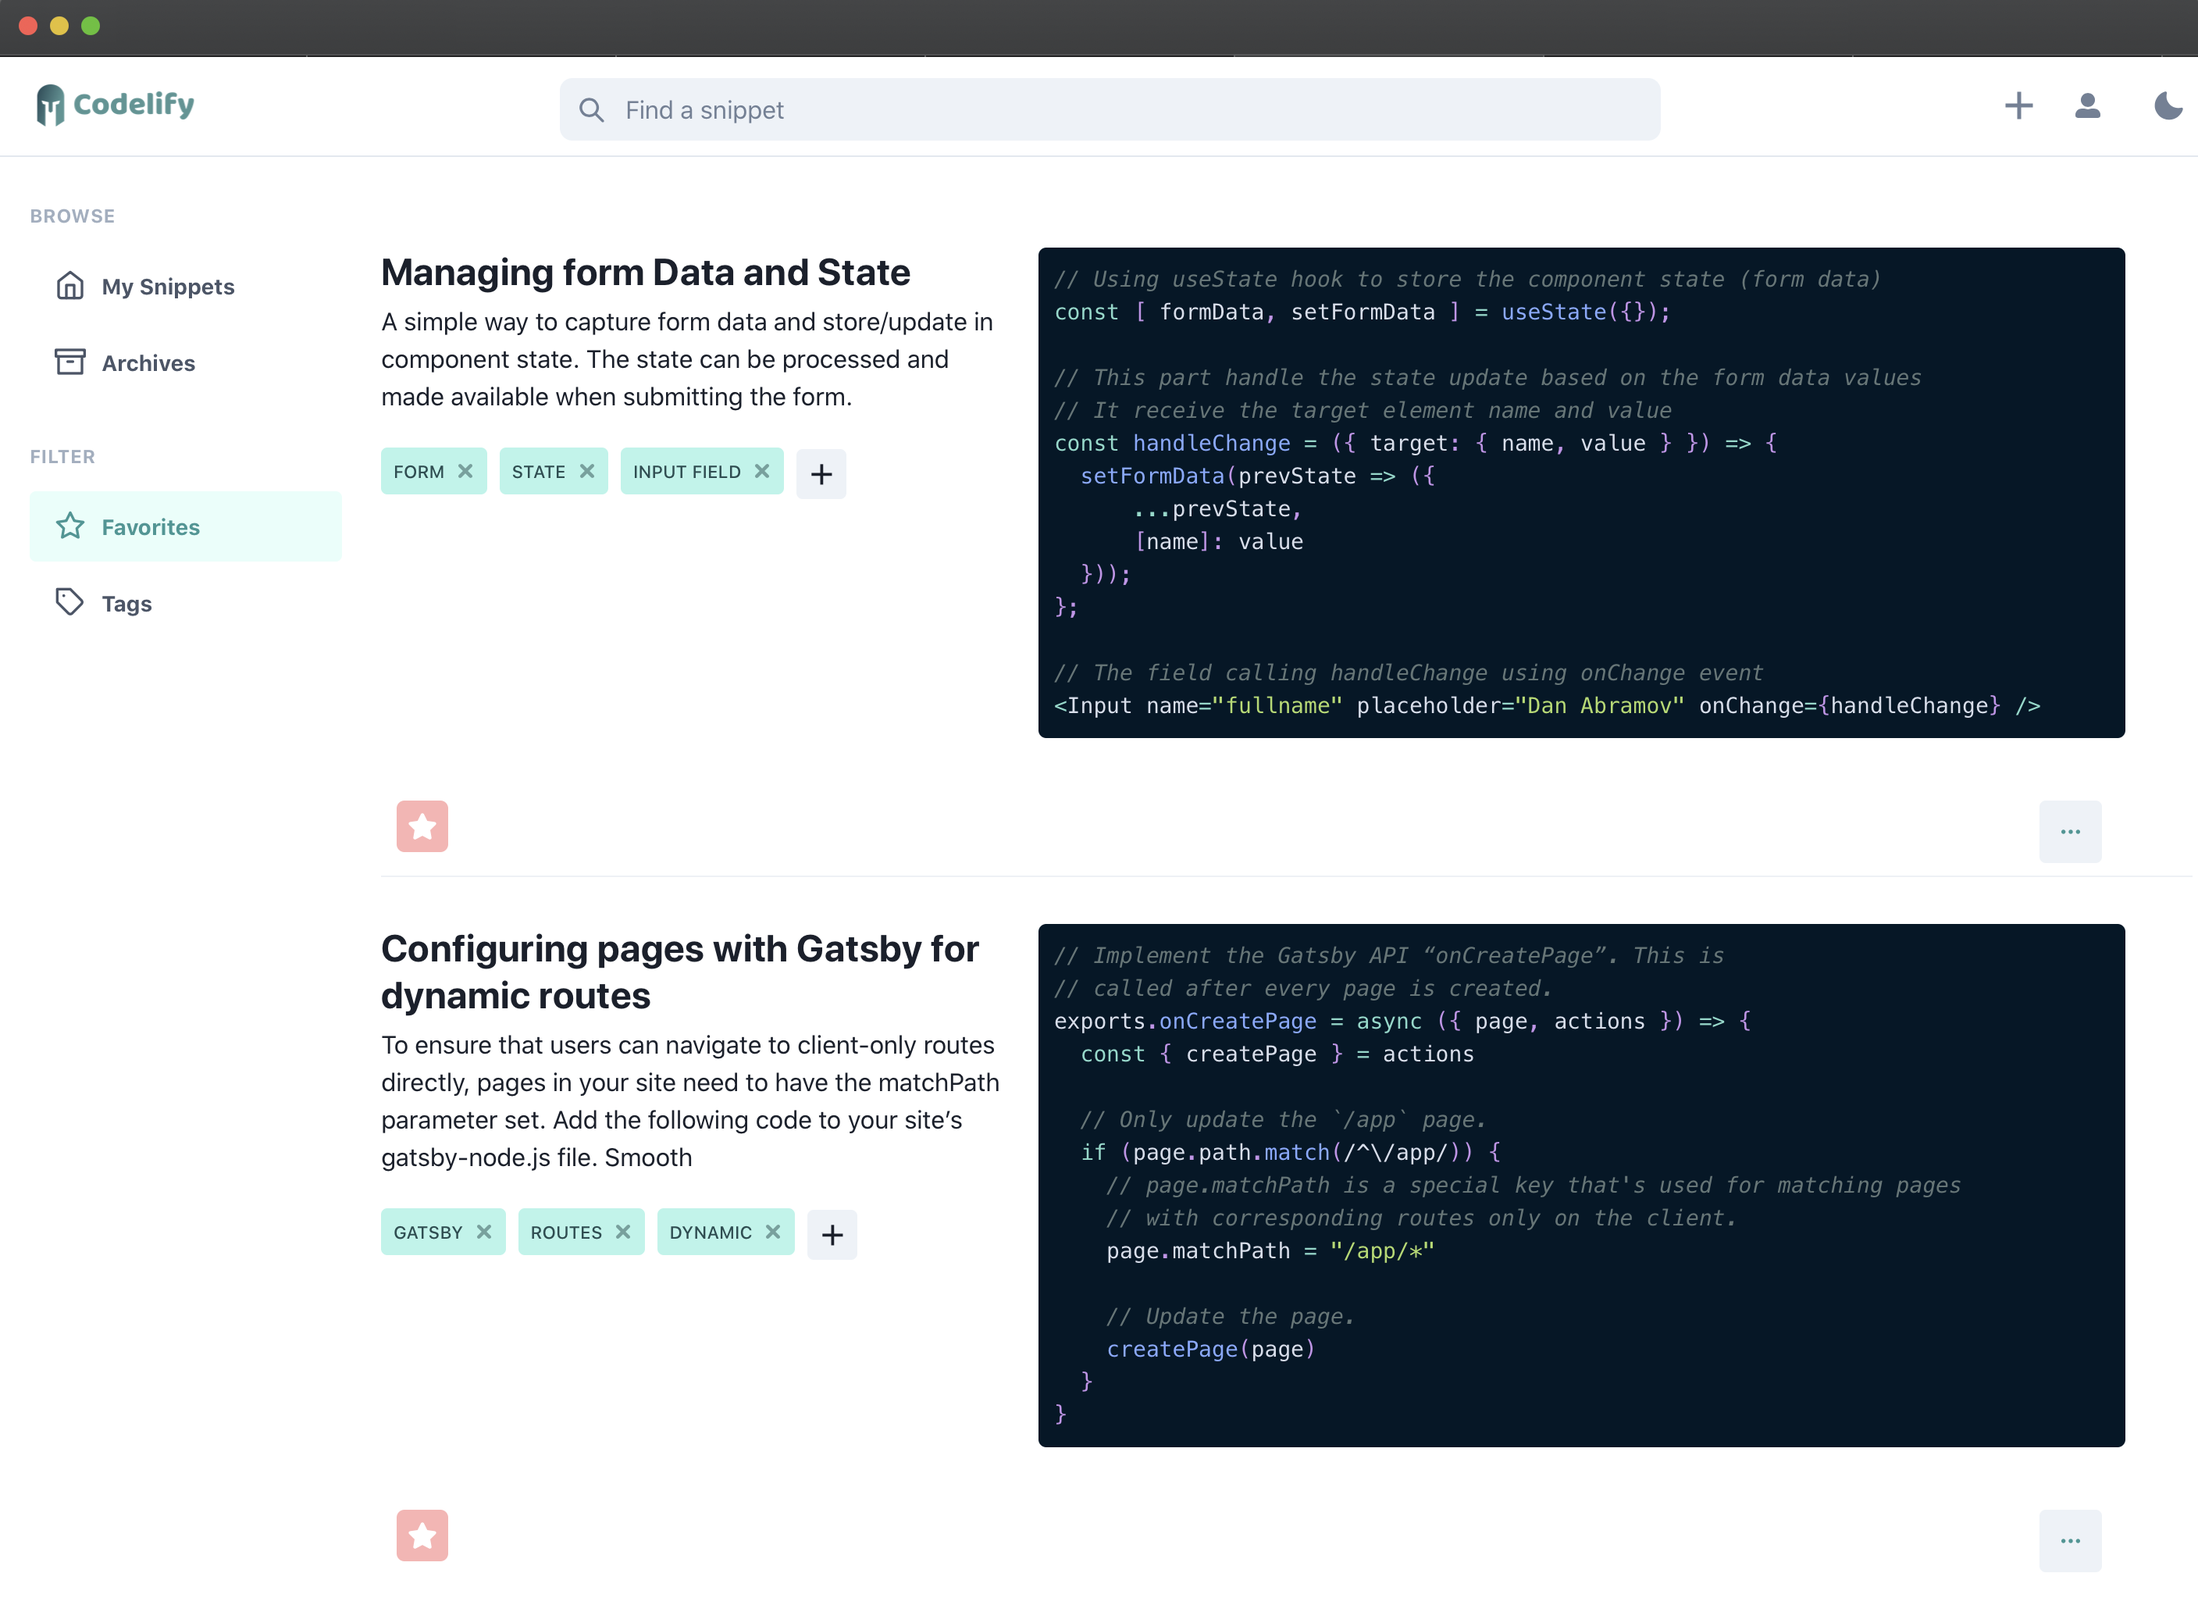
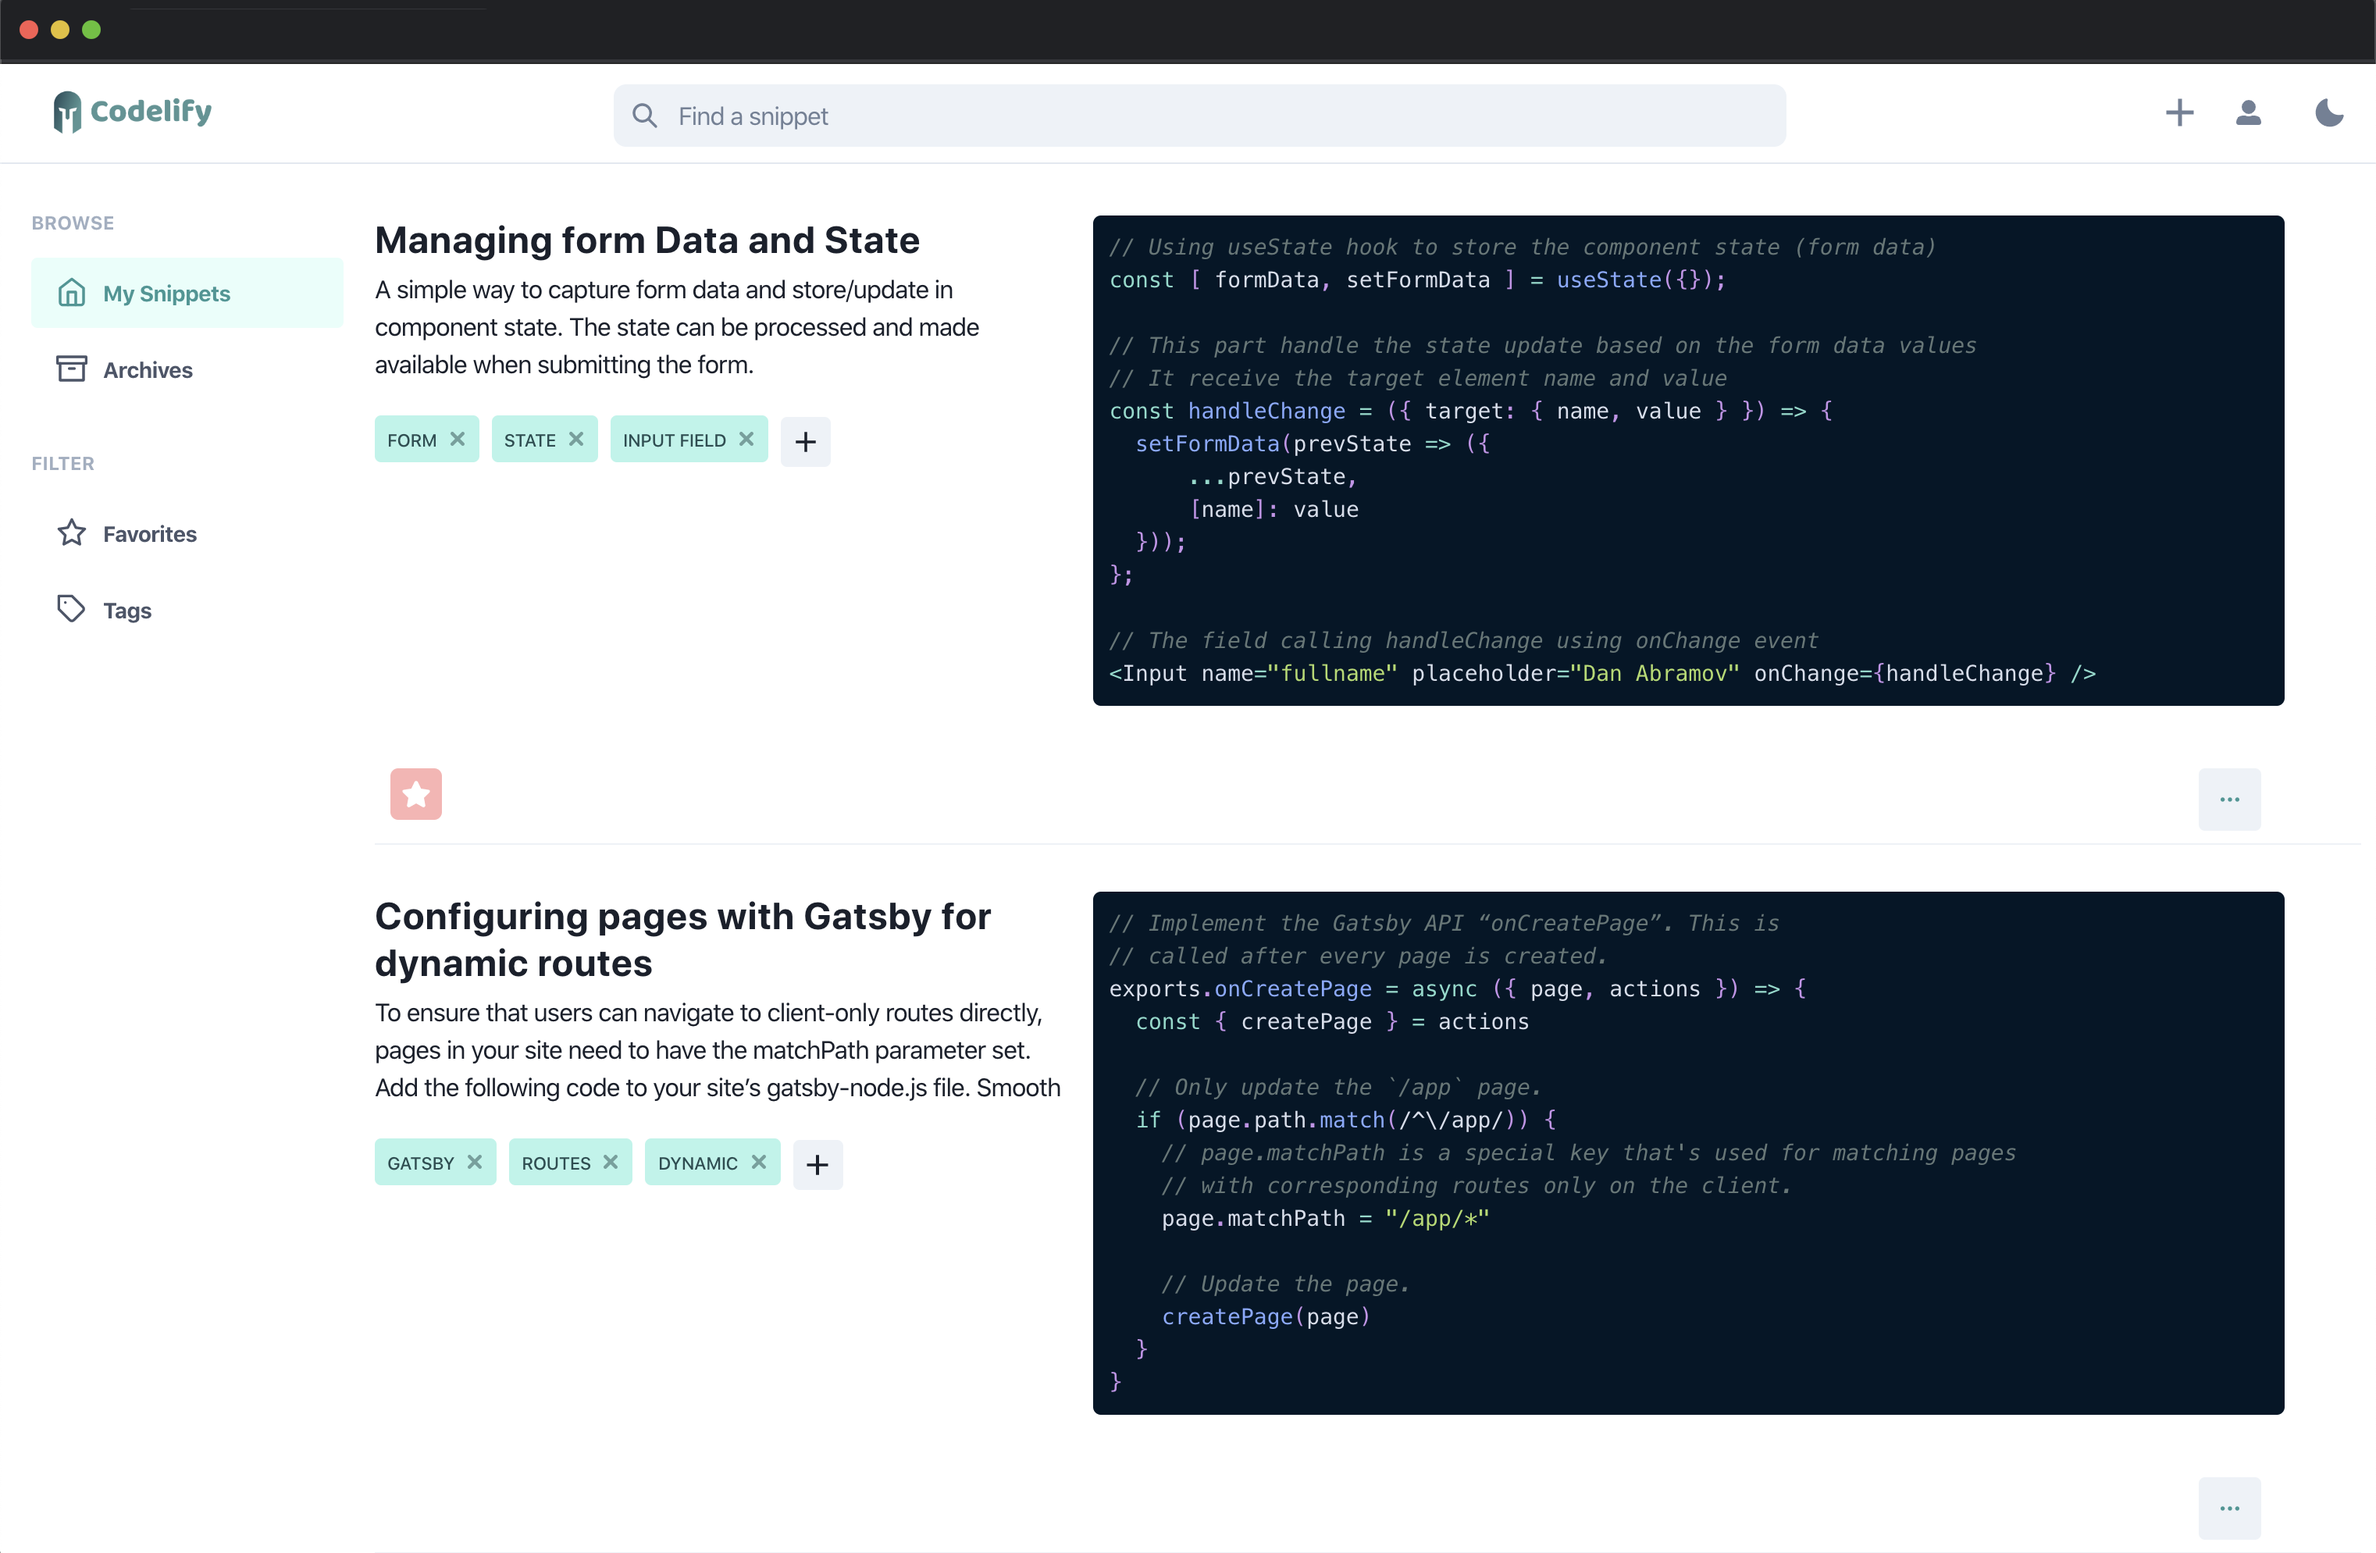
made side bar fixe

diff --git a/src/views/layout.js b/src/views/layout.js
@@ -16,7 +16,7 @@ const MainLayout = ({ children }) => {
       <Flex align="center" justify="center" w="100%">
         <Container d="flex">
           <SideNav />
-          <Main px="5px" w="100%" pt={8}>
+          <Main ml={["0px", "0px", "210px", "210px"]} px="10px" w="100%" pt={8}>
             {children}
           </Main>
         </Container>

diff --git a/src/components/SideNav.js b/src/components/SideNav.js
@@ -8,7 +8,7 @@ import SideNavContent from "./SideNavContent"
 const SideNav = props => {
   return (
     <Box mr="20px" display={['none', null, 'block']}>
-      <SideNavContent />
+      <SideNavContent pos="fixed"/>
     </Box>
   );
 };

diff --git a/src/views/Landing.js b/src/views/Landing.js
@@ -128,7 +128,7 @@ function Landing() {
             }}
             mx="auto"
             minWidth="330px"
-            w="70%"
+            w="80%"
             maxW="1280px"
             borderRadius="5px"
           >

diff --git a/src/components/Header.js b/src/components/Header.js
@@ -56,6 +56,7 @@ const AppHeader = props => {
       width="100%"
       height="4rem"
       mx="auto"
+      px="10px"
       {...props}
     >
       <Flex align="center" justify="center" w="100%">
